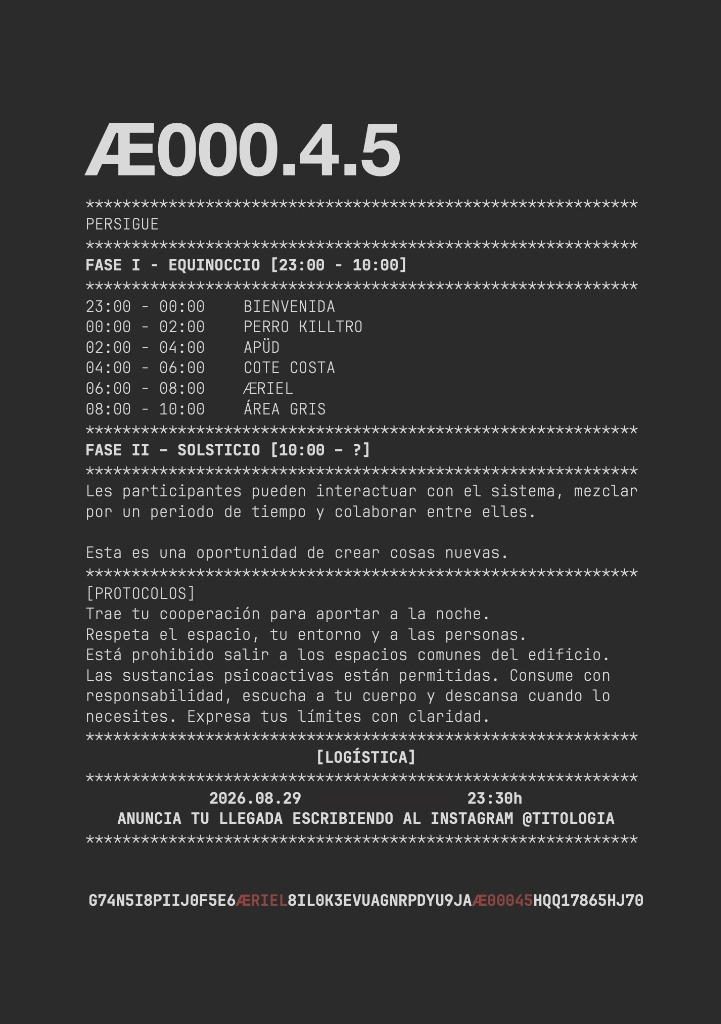
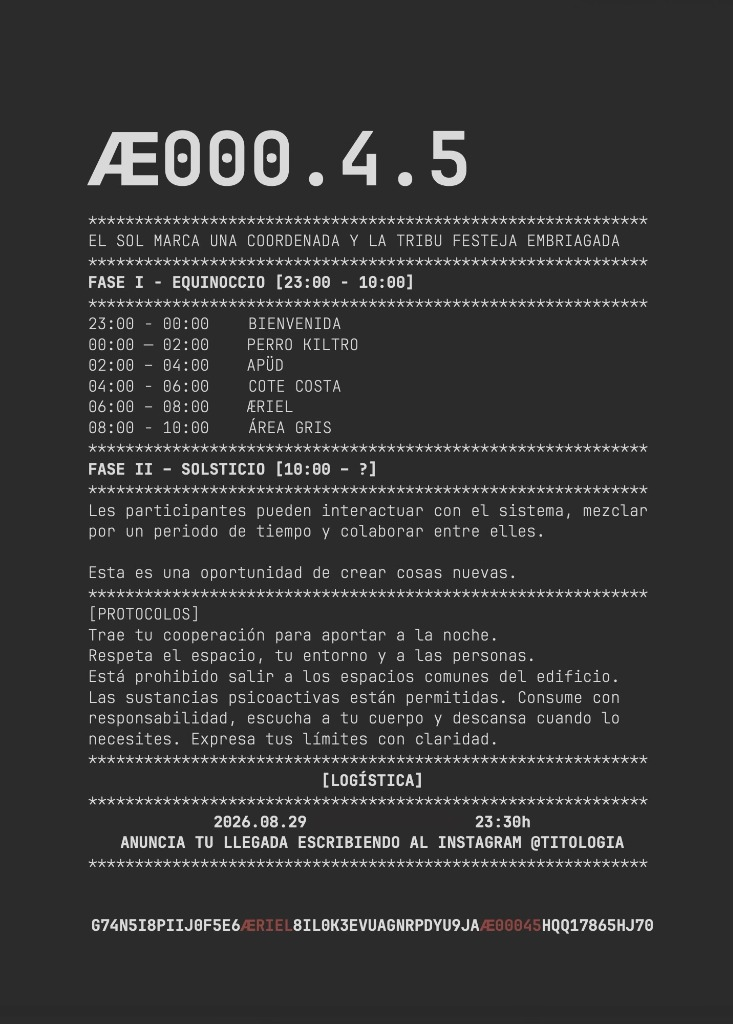
feat(media): replace ae000.4.5 flyer with updated artwork

Changed region(s): [[0.1221, 0.0938, 0.9154, 0.9062]]

diff --git a/index.html b/index.html
@@ -1107,7 +1107,7 @@
                         <span class="poster-card-date">2026.08</span>
                       </div>
                       <div class="poster-card-media">
-                        <img src="./public/images/posters/poster_ae000_4_5.jpg" alt="Æ000.4.5 Flyer Artwork" class="poster-img" loading="lazy">
+                        <img src="./public/images/posters/poster_ae000_4_5.jpg" alt="Æ000.4.5 Flyer Artwork — El Sol Marca Una Coordenada" class="poster-img" loading="lazy">
                       </div>
                     </button>
                   </div>
